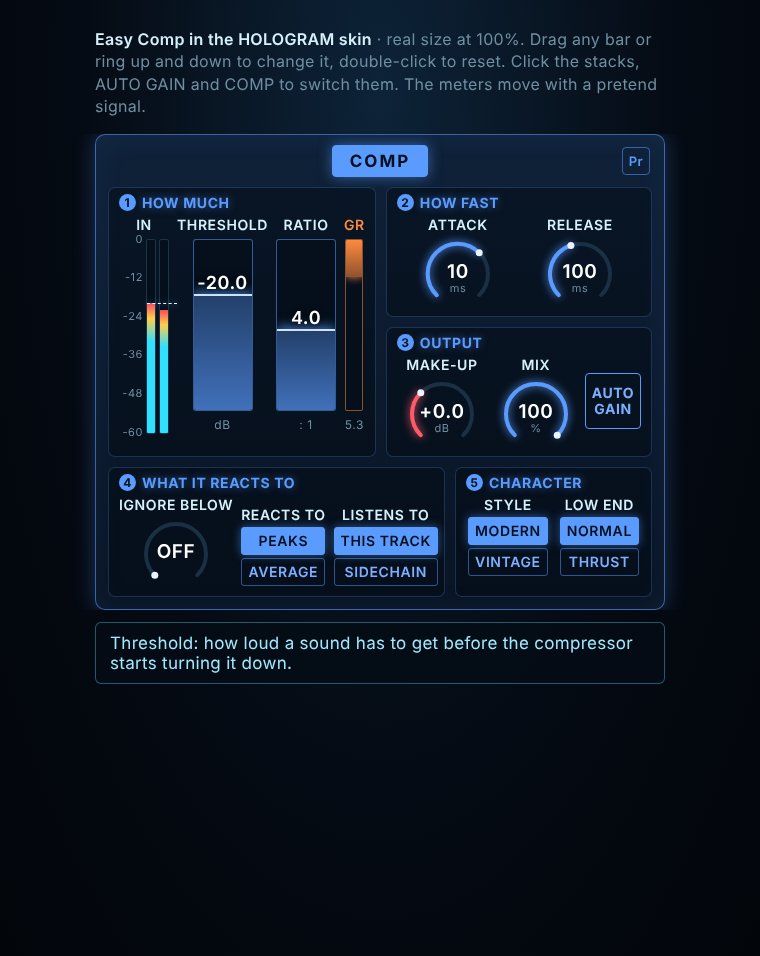
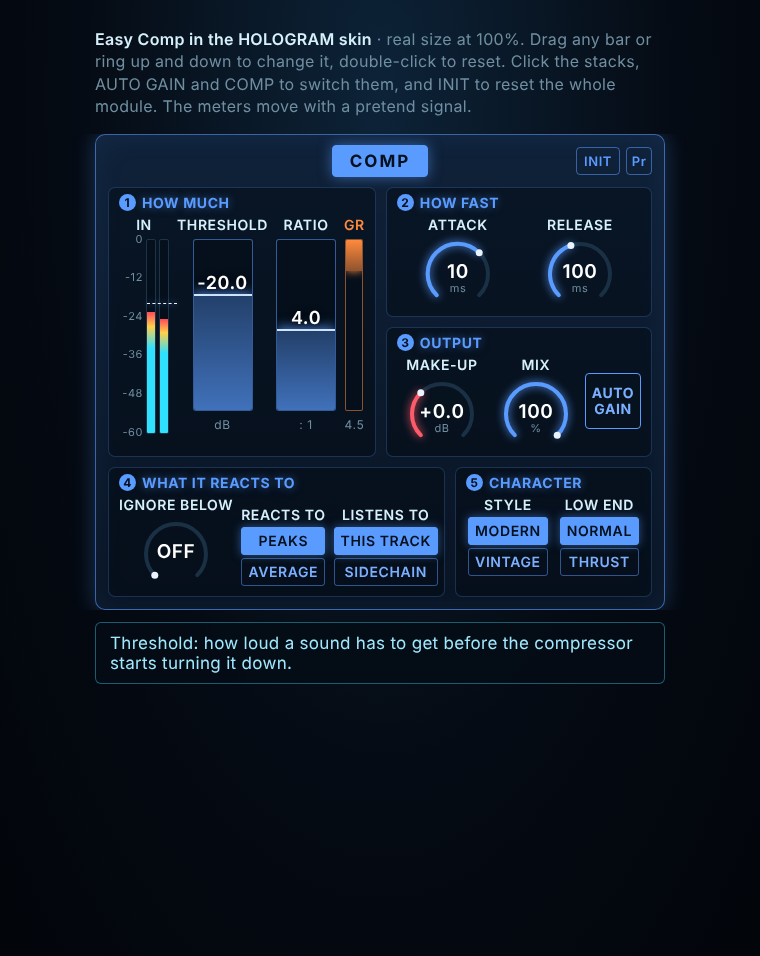
DevTools: an INIT button beside Pr on every strip module [skip ci]
Claude-Session: https://claude.ai/code/session_01KRn7UbAFWVf9LHLqhN9U6j

diff --git a/DevTools/Look/Strip/hologram_comp_module.html b/DevTools/Look/Strip/hologram_comp_module.html
@@ -22,7 +22,10 @@ html{background:#02050a}
   border:1px solid color-mix(in srgb,var(--t) 60%,transparent);
   box-shadow:0 0 22px color-mix(in srgb,var(--t) 28%,transparent),inset 0 0 30px color-mix(in srgb,var(--t) 8%,transparent);
   display:flex;flex-direction:column;gap:10px;font-size:14px;letter-spacing:.6px;text-transform:uppercase;user-select:none}
-.top{display:grid;grid-template-columns:30px 1fr 30px;align-items:center}
+.top{display:grid;grid-template-columns:76px 1fr 76px;align-items:center}
+.tools{grid-column:3;display:flex;gap:6px;justify-content:flex-end}
+.init{height:28px;padding:0 7px;box-sizing:border-box;border:1px solid color-mix(in srgb,var(--t) 55%,transparent);border-radius:4px;color:var(--t);display:flex;align-items:center;justify-content:center;font-weight:600;font-size:13px;cursor:pointer}
+.init:active,.init.flash{background:var(--t);color:#04101e}
 .onoff{grid-column:2;justify-self:center;height:32px;min-width:96px;padding:0 14px;box-sizing:border-box;border-radius:4px;border:1px solid var(--t);
   background:var(--t);color:#04101e;font-weight:700;font-size:17px;letter-spacing:2px;display:flex;align-items:center;justify-content:center;cursor:pointer;box-shadow:0 0 14px color-mix(in srgb,var(--t) 55%,transparent)}
 .onoff.off{background:transparent;color:var(--dim);border-color:#2a4256;box-shadow:none}
@@ -66,11 +69,11 @@ html{background:#02050a}
 @media (prefers-reduced-motion:reduce){*{transition:none!important}}
 </style>
 
-<p class="cap"><b>Easy Comp in the HOLOGRAM skin</b> · real size at 100%. Drag any bar or ring up and down to change it, double-click to reset. Click the stacks, AUTO GAIN and COMP to switch them. The meters move with a pretend signal.</p>
+<p class="cap"><b>Easy Comp in the HOLOGRAM skin</b> · real size at 100%. Drag any bar or ring up and down to change it, double-click to reset. Click the stacks, AUTO GAIN and COMP to switch them, and INIT to reset the whole module. The meters move with a pretend signal.</p>
 
 <div class="frame">
 <div class="mod" id="mod">
-  <div class="top"><div class="onoff" id="power">COMP</div><div class="pr" style="grid-column:3">Pr</div></div>
+  <div class="top"><div class="onoff" id="power">COMP</div><div class="tools"><div class="init" id="init" title="Reset this module to its default settings">INIT</div><div class="pr">Pr</div></div></div>
 
   <div class="row">
     <div class="sec" style="flex:none">
@@ -173,6 +176,9 @@ document.querySelectorAll('[data-c]').forEach(function(el){
 });
 document.querySelectorAll('.stack').forEach(function(st){st.querySelectorAll('span').forEach(function(sp){sp.addEventListener('click',function(){st.querySelectorAll('span').forEach(function(o){o.classList.toggle('on',o===sp)})})})});
 document.getElementById('auto').addEventListener('click',function(){this.classList.toggle('on')});
+var ini=document.getElementById('init');
+ini.addEventListener('mouseenter',function(){tick.textContent='Init: puts every setting in this module back to its default. Nothing else on the strip changes.'});
+ini.addEventListener('click',function(){for(var k in C){N[k]=toN(k,C[k].def);draw(k)}document.querySelectorAll('.stack').forEach(function(st){st.querySelectorAll('span').forEach(function(o,i){o.classList.toggle('on',i===0)})});document.getElementById('auto').classList.remove('on');ini.classList.add('flash');setTimeout(function(){ini.classList.remove('flash')},180)});
 var pw=document.getElementById('power');pw.addEventListener('click',function(){pw.classList.toggle('off')});
 // pretend signal: a drum-like level, gain reduction from threshold and ratio
 var still=window.matchMedia&&window.matchMedia('(prefers-reduced-motion: reduce)').matches;
